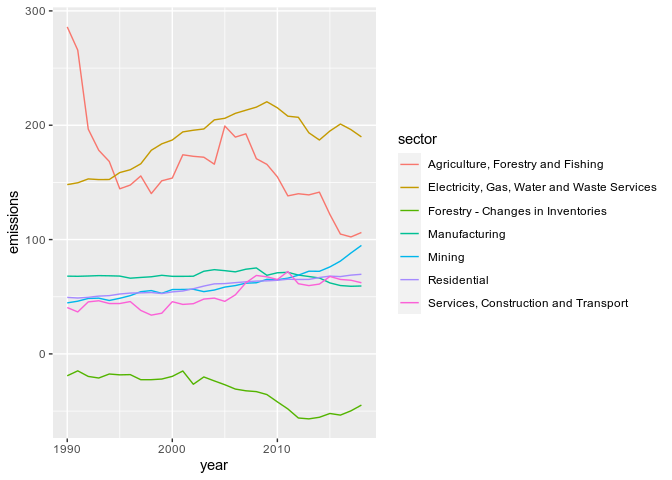
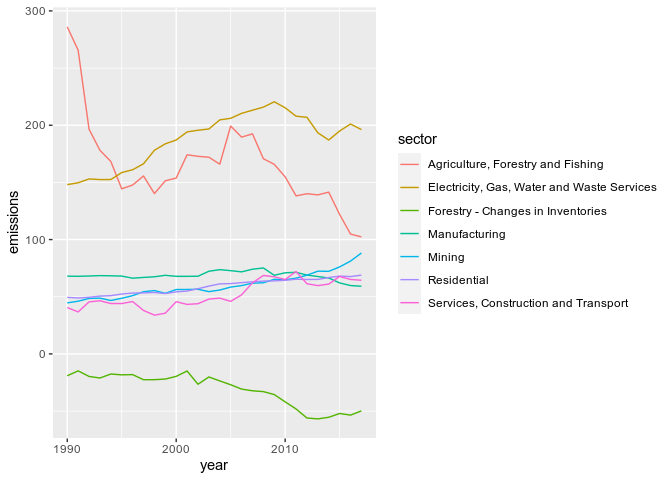
remove leftover; add info; fix formatting; fix package list

diff --git a/R/reports/reports.md b/R/reports/reports.md
@@ -1,7 +1,7 @@
 R reproducible reports with R Markdown and knitr
 ================
 Stéphane Guillou
-2020-06-17
+2020-06-23
 
 > This document is redacted in R Markdown; the source file is available
 > here:
@@ -28,11 +28,16 @@ With RStudio open, let’s make sure we have the necessary packages
 installed by running this command (this might take a few minutes):
 
 ``` r
-install.packages(c("tidyverse", "knitr", "ggplotly"))
+install.packages(c("tidyverse", "knitr", "plotly", "htmltools"))
 ```
 
-This will install the Tidyverse packages, and the knitr package to
-render reproducible reports.
+This will install the Tidyverse packages, the knitr package to render
+reproducible reports, the plotly packages for interactive
+visualisations, and the htmltools for having all bases covered regarding
+rendering HTML documents.
+
+> If R asks about installing a binary or building from source, **pick
+> the binary option**: it will be faster\!
 
 ## What are we going to learn?
 
@@ -47,10 +52,10 @@ click.
 
 ## Create a project and an R Markdown file
 
-Use the project menu (top right) to create a “New project…”. Let’s name
-this one “reports”.
+Use the project menu (top right) to **create a “New project…”**. Let’s
+name this one “reports”.
 
-We also need to create a new R Markdown file: “File \> New File \> R
+We also need to create a **new R Markdown file**: “File \> New File \> R
 Markdown…”. We can change the title of the report, and the author as
 well. Let’s stick to “HTML document” as an output for now.
 
@@ -65,10 +70,11 @@ are:
     headers;
   - and **code chunks**, in between ` ``` ` where we can write R code.
 
-But before we edit this document, let’s go straight to the “knit” button
-at the top of the source panel. Clicking that button will compile a
-document from the R Markdown file. You should see the process unfolding
-in the R Markdown tab, and the HTML document pop up when it is finished.
+But before we edit this document, let’s go straight to the **“knit”
+button** at the top of the source panel. Clicking that button will
+**compile** a document from the R Markdown file. You should see the
+process unfolding in the R Markdown tab, and the HTML document pop up in
+a separate window when it is finished.
 
 See how the document contains a title, headers, code input and output,
 and explanations?
@@ -117,43 +123,21 @@ Let’s import the Tidyverse, by including this code in the chunk:
 library(tidyverse)
 ```
 
-    ## ── Attaching packages ─────────────────────────────────────────────────────── tidyverse 1.3.0 ──
-
-    ## ✓ ggplot2 3.3.1     ✓ purrr   0.3.4
-    ## ✓ tibble  3.0.1     ✓ dplyr   1.0.0
-    ## ✓ tidyr   1.1.0     ✓ stringr 1.4.0
-    ## ✓ readr   1.3.1     ✓ forcats 0.5.0
-
-    ## ── Conflicts ────────────────────────────────────────────────────────── tidyverse_conflicts() ──
-    ## x dplyr::filter() masks stats::filter()
-    ## x dplyr::lag()    masks stats::lag()
-
-Notice that you can test your chunks of code one by one by clicking the
-“play” button at the right of the chunk: you don’t have to knit the
-whole document every time you want to test your code.
+Notice that you can **run your chunks of code** one by one by clicking
+the green “play” button at the right of the chunk: you don’t have to
+knit the whole document every time you want to test your code.
 
 Now, try to knit the document and see what it looks like.
 
 #### Challenge 2
 
-Inside a new chunk, add some code to import the dataset located [here]()
+Inside a new chunk, add some code to import the dataset located
+[here](https://gitlab.com/stragu/DSH/-/raw/master/R/reports/aus_ghg_2017.csv)
 into an object called `ghg`.
 
 ``` r
-ghg <- read_csv("aus_ghg_2018.csv")
+ghg <- read_csv("https://gitlab.com/stragu/DSH/-/raw/master/R/reports/aus_ghg_2017.csv")
 ```
-
-    ## Parsed with column specification:
-    ## cols(
-    ##   year = col_double(),
-    ##   `Agriculture, Forestry and Fishing` = col_double(),
-    ##   `Forestry - Changes in Inventories` = col_double(),
-    ##   Mining = col_double(),
-    ##   Manufacturing = col_double(),
-    ##   `Electricity, Gas, Water and Waste Services` = col_double(),
-    ##   `Services, Construction and Transport` = col_double(),
-    ##   Residential = col_double()
-    ## )
 
 > Clicking “Knit” will automatically save your .Rmd file as well as the
 > HTML output.
@@ -164,7 +148,7 @@ Now, we can add a chunk to show the data, by including this code in it:
 ghg
 ```
 
-    ## # A tibble: 29 x 8
+    ## # A tibble: 28 x 8
     ##     year `Agriculture, F… `Forestry - Cha… Mining Manufacturing `Electricity, G…
     ##    <dbl>            <dbl>            <dbl>  <dbl>         <dbl>            <dbl>
     ##  1  1990             286.            -19.1   44.6          68.0             148.
@@ -177,19 +161,22 @@ ghg
     ##  8  1997             156.            -22.6   54.4          66.9             166.
     ##  9  1998             140.            -22.5   55.4          67.5             178.
     ## 10  1999             151.            -22.0   53.0          68.8             184.
-    ## # … with 19 more rows, and 2 more variables: `Services, Construction and
+    ## # … with 18 more rows, and 2 more variables: `Services, Construction and
     ## #   Transport` <dbl>, Residential <dbl>
 
 ### Working directory
 
 Note that the **working directory** for an R Markdown document will be
-the .Rmd file’s location (and not necessarily the working directory of
-the R project your are in). That is why it is a good idea to save your R
-Markdown file at the top of your R Project directory if you want
-consistency between your scripts and your R Markdown file.
+the .Rmd file’s location by default (and not necessarily the working
+directory of the R project your are in). That is why it is a good idea
+to save your R Markdown file at the top of your R Project directory if
+you want consistency between your scripts and your R Markdown file.
 
 In our example, we load a CSV file from the Internet, but if we had a
 data file stored locally, it is important to keep that in mind.
+
+> You can change the default behaviour by using the Knit dropdown menu
+> and choosing an option in “Knit directory”.
 
 ### Chunk options
 
@@ -198,7 +185,7 @@ might want to remove that if it is not important and we don’t want to
 include it in the report. At the top of your chunk, you can **modify the
 options** like so:
 
-    {r  message=FALSE}
+    {r message=FALSE}
 
 The code will be executed and the output (if there is any) will be
 shown, but the messages won’t\!
@@ -208,7 +195,7 @@ and show with your chunk of code. For example, to hide both messages and
 warnings, and only show the output of the code (without showing the
 underlying code), you can use these options, separated by commas:
 
-    {r  message=FALSE, warning=FALSE, echo=FALSE}
+    {r message=FALSE, warning=FALSE, echo=FALSE}
 
 It also is a good idea to **label your chunks**, especially in longer
 documents, so you can spot issues more easily. It won’t be shown in the
@@ -222,6 +209,17 @@ It is also possible to include a chunk at the top of your document, that
 will detail the default options you want to use for all you chunks. That
 is particularly useful if you want to define a default size for all your
 figures, for example.
+
+Here is an example of a chunk you might use to change default options:
+
+    ```{r setup, include=FALSE}
+    knitr::opts_chunk$set(echo = TRUE, message = FALSE, warning = FALSE)
+    ```
+
+That would make sure that, by default:
+
+  - The code is shown, but
+  - the messages and warnings are hidden.
 
 ## Errors when knitting
 
@@ -250,15 +248,15 @@ ghg_tidy <- pivot_longer(ghg,
 
 ## Inline code
 
-We can also include code that will be executed *inside* Markdown text.
-For example, you can write the following sentence:
+We can also **include code that will be executed *inside* Markdown
+text**. For example, you can write the following sentence:
 
-> The dataset contains GHG emissions for the period `r
-> min(ghg_tidy$year)` to `r max(ghg_tidy$year)`. The maximum GHG
-> emissions recorded for the mining sector is `r
-> max(ghg_tidy[ghg_tidy$sector == "Mining",]$emissions)`
+> The dataset contains GHG emissions for the period `` `r
+> min(ghg_tidy$year)` `` to `` `r max(ghg_tidy$year)` ``. The maximum
+> GHG emissions recorded for the mining sector is `` `r
+> max(ghg_tidy[ghg_tidy$sector == "Mining",]$emissions)` ``.
 
-We can also use this feature to auto-update the date of your report
+We can also use this feature to **auto-update the date** of your report
 every time it is knitted. Replace the `date` line in the YAML header
 with this one:
 
@@ -268,7 +266,7 @@ Now, try knitting the report again.
 
 ## Visualisation
 
-We can also include a visualisation using ggplot2:
+We can also include a visualisation using, for example, ggplot2:
 
 ``` r
 ggplot(ghg_tidy, aes(x = year, y = emissions, colour = sector)) +
@@ -276,9 +274,6 @@ ggplot(ghg_tidy, aes(x = year, y = emissions, colour = sector)) +
 ```
 
 ![](reports_files/figure-gfm/viz-1.png)<!-- -->
-
-Make sure you keep adding Markdown text around your chunks to document
-your work.
 
 > If you want to hide the code that created an output, like for this
 > plot, you can add the option `echo=FALSE` to it.
@@ -292,10 +287,8 @@ p <- ggplot(ghg_tidy, aes(x = year, y = emissions, colour = sector)) +
 ggplotly(p)
 ```
 
-    ## TypeError: Attempting to change the setter of an unconfigurable property.
-    ## TypeError: Attempting to change the setter of an unconfigurable property.
-
-![](reports_files/figure-gfm/interactive-1.png)<!-- -->
+This will work in a HTML document, but will most likely fail in other
+output formats.
 
 To change the width of all our figures, we can use this is the setup
 chunk, that contains the `{r setup, include=FALSE}` header:
@@ -327,7 +320,7 @@ However, other output formats are available. Here are some examples:
 
 In some cases, you might be required to share your report as a PDF.
 Knitting your document to PDF can generate very professional-looking
-documents, but it will require having extra software on your computer.
+reports, but it will require having extra software on your computer.
 
 You can install the necessary LaTeX packages with an R package called
 TinyTeX, which is a great alternative to very big LaTeX distributions
@@ -345,38 +338,14 @@ After this, try to change your YAML header’s `output` value to
 
 Related to R Markdown and knitr:
 
-  - 
+  - *R Markdown Cookbook*, by Yihui Xie and Christophe Dervieux:
+    <https://bookdown.org/yihui/rmarkdown-cookbook/>
+  - Official website by RStudio: <https://rmarkdown.rstudio.com/>
+      - Tutorial: <https://rmarkdown.rstudio.com/lesson-1.html>
+      - Documentation: <https://rmarkdown.rstudio.com/docs/>
+  - R Markdown cheatsheet:
+    <https://github.com/rstudio/cheatsheets/raw/master/rmarkdown-2.0.pdf>
+
 Our list of recommended R resources:
 
   - <https://gitlab.com/stragu/DSH/-/blob/master/R/usefullinks.md>
-
-## R Markdown
-
-This is an R Markdown document. Markdown is a simple formatting syntax
-for authoring HTML, PDF, and MS Word documents. For more details on
-using R Markdown see <http://rmarkdown.rstudio.com>.
-
-When you click the **Knit** button a document will be generated that
-includes both content as well as the output of any embedded R code
-chunks within the document. You can embed an R code chunk like this:
-
-``` r
-summary(cars)
-```
-
-    ##      speed           dist       
-    ##  Min.   : 4.0   Min.   :  2.00  
-    ##  1st Qu.:12.0   1st Qu.: 26.00  
-    ##  Median :15.0   Median : 36.00  
-    ##  Mean   :15.4   Mean   : 42.98  
-    ##  3rd Qu.:19.0   3rd Qu.: 56.00  
-    ##  Max.   :25.0   Max.   :120.00
-
-## Including Plots
-
-You can also embed plots, for example:
-
-![](reports_files/figure-gfm/pressure-1.png)<!-- -->
-
-Note that the `echo = FALSE` parameter was added to the code chunk to
-prevent printing of the R code that generated the plot.
